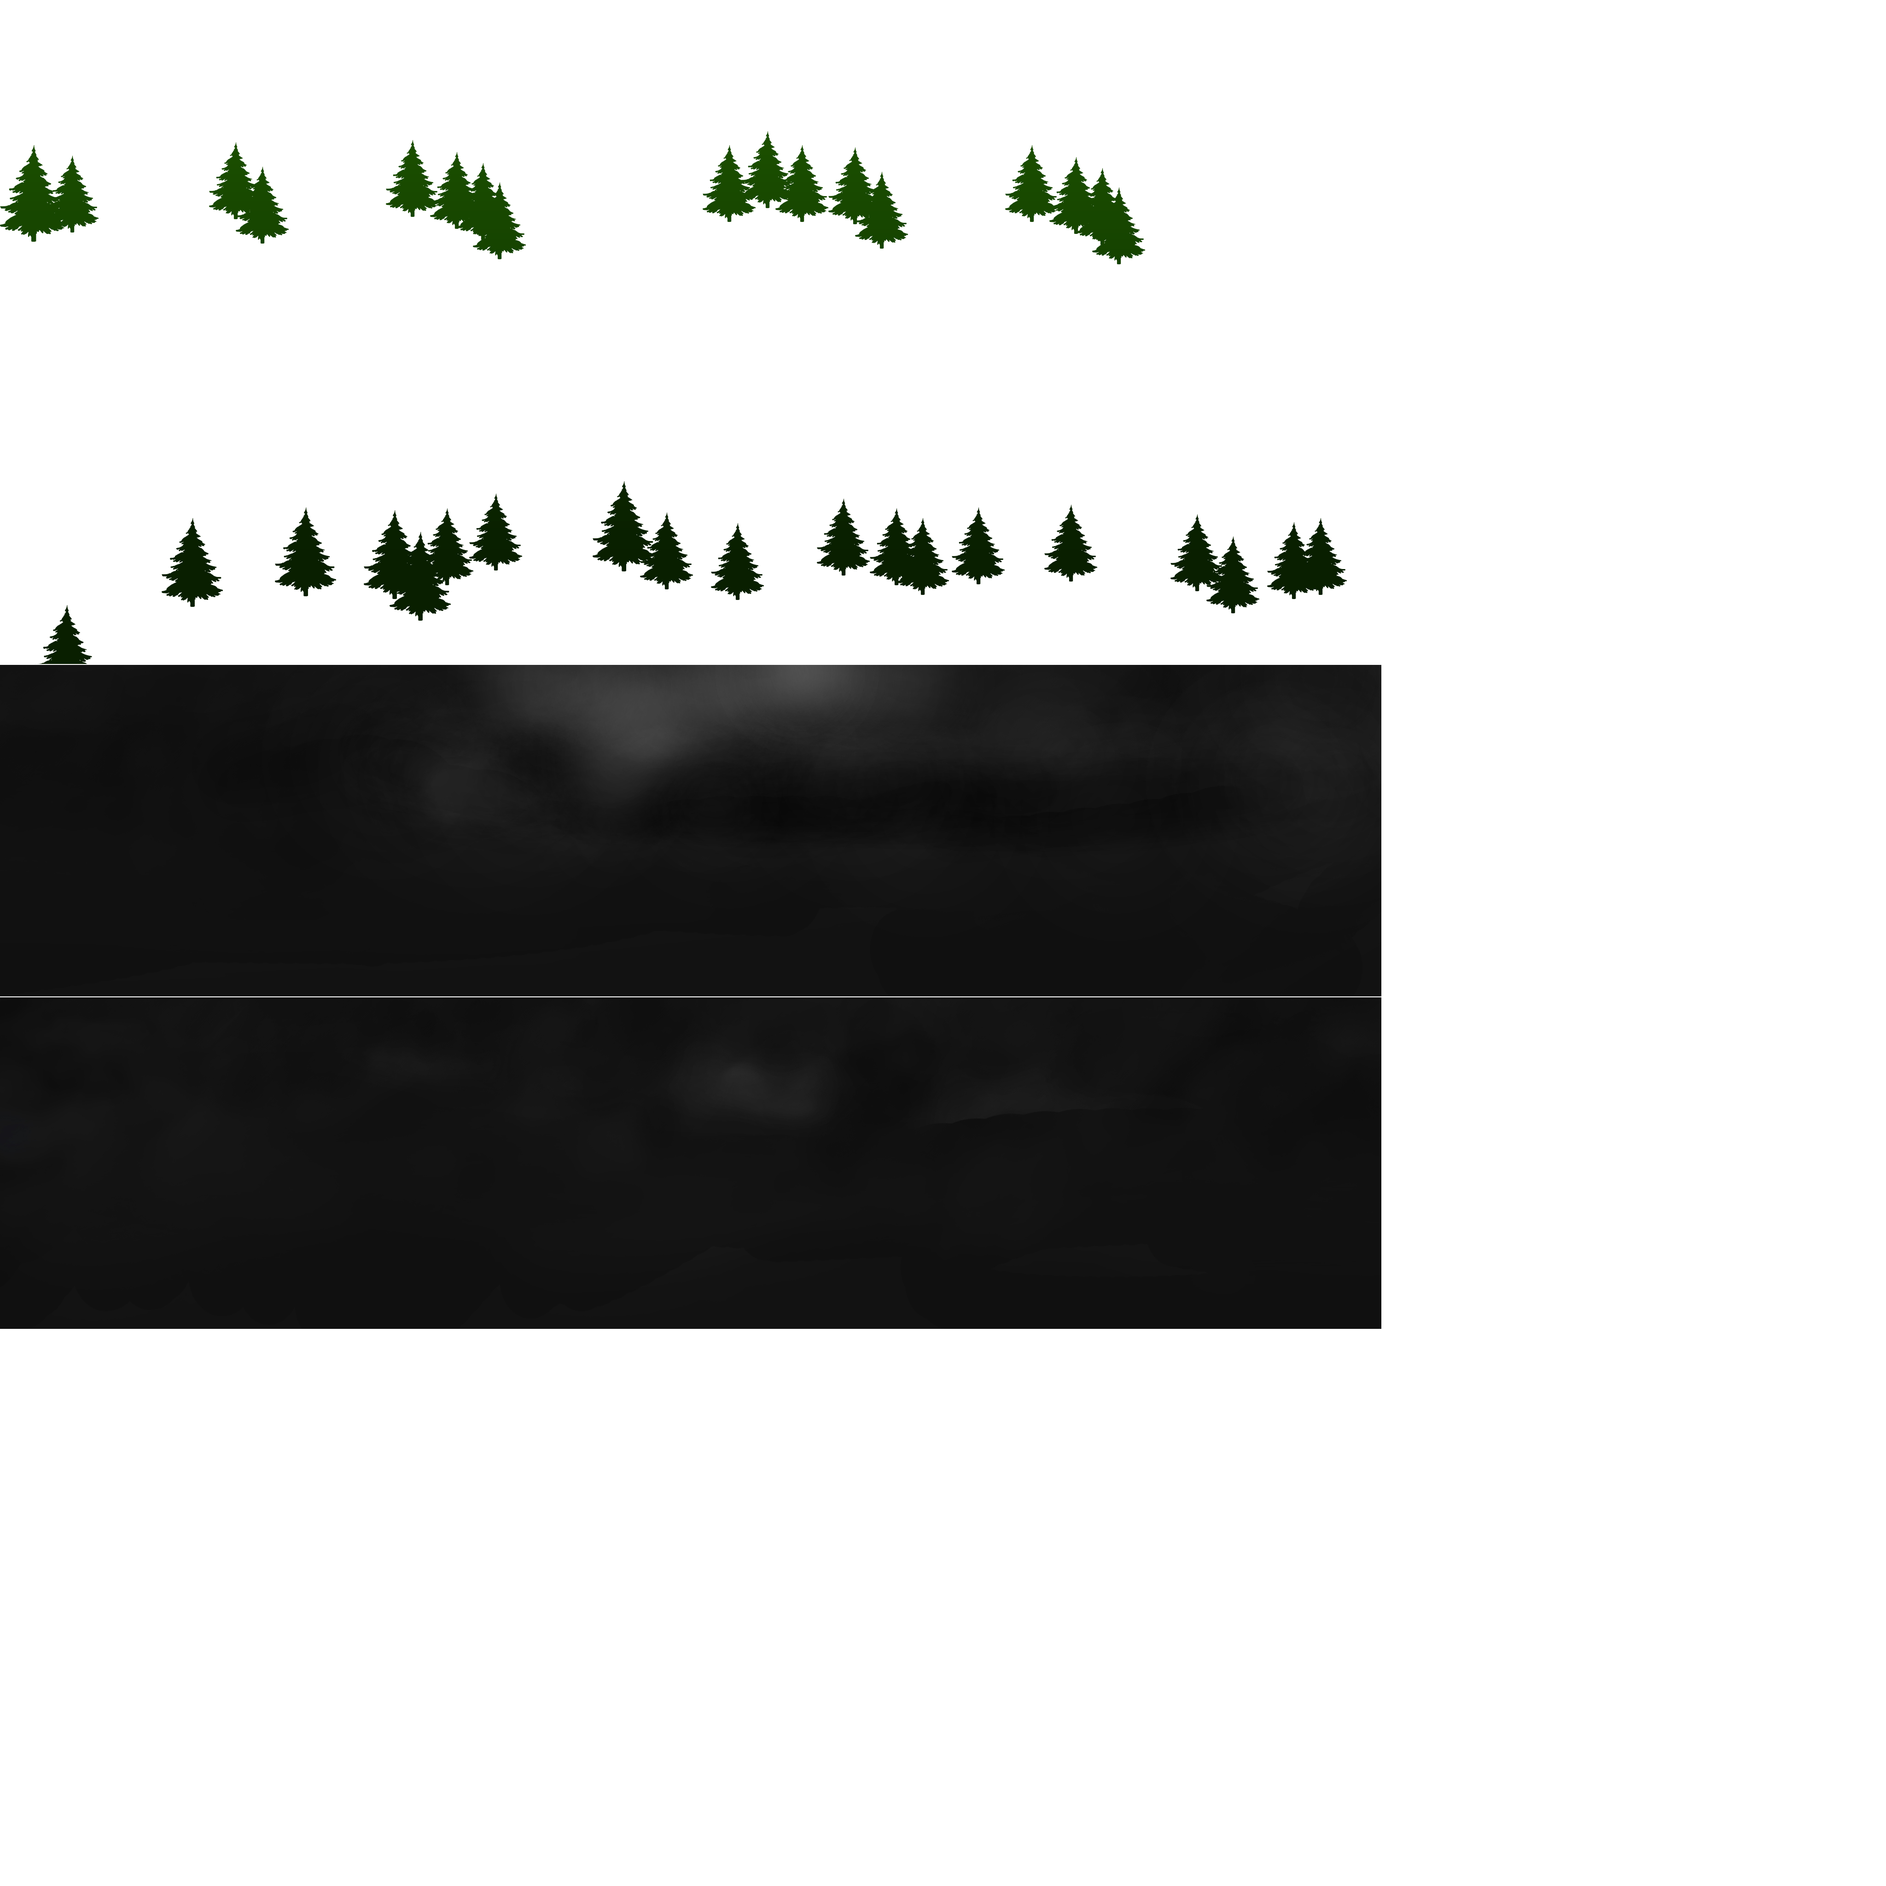
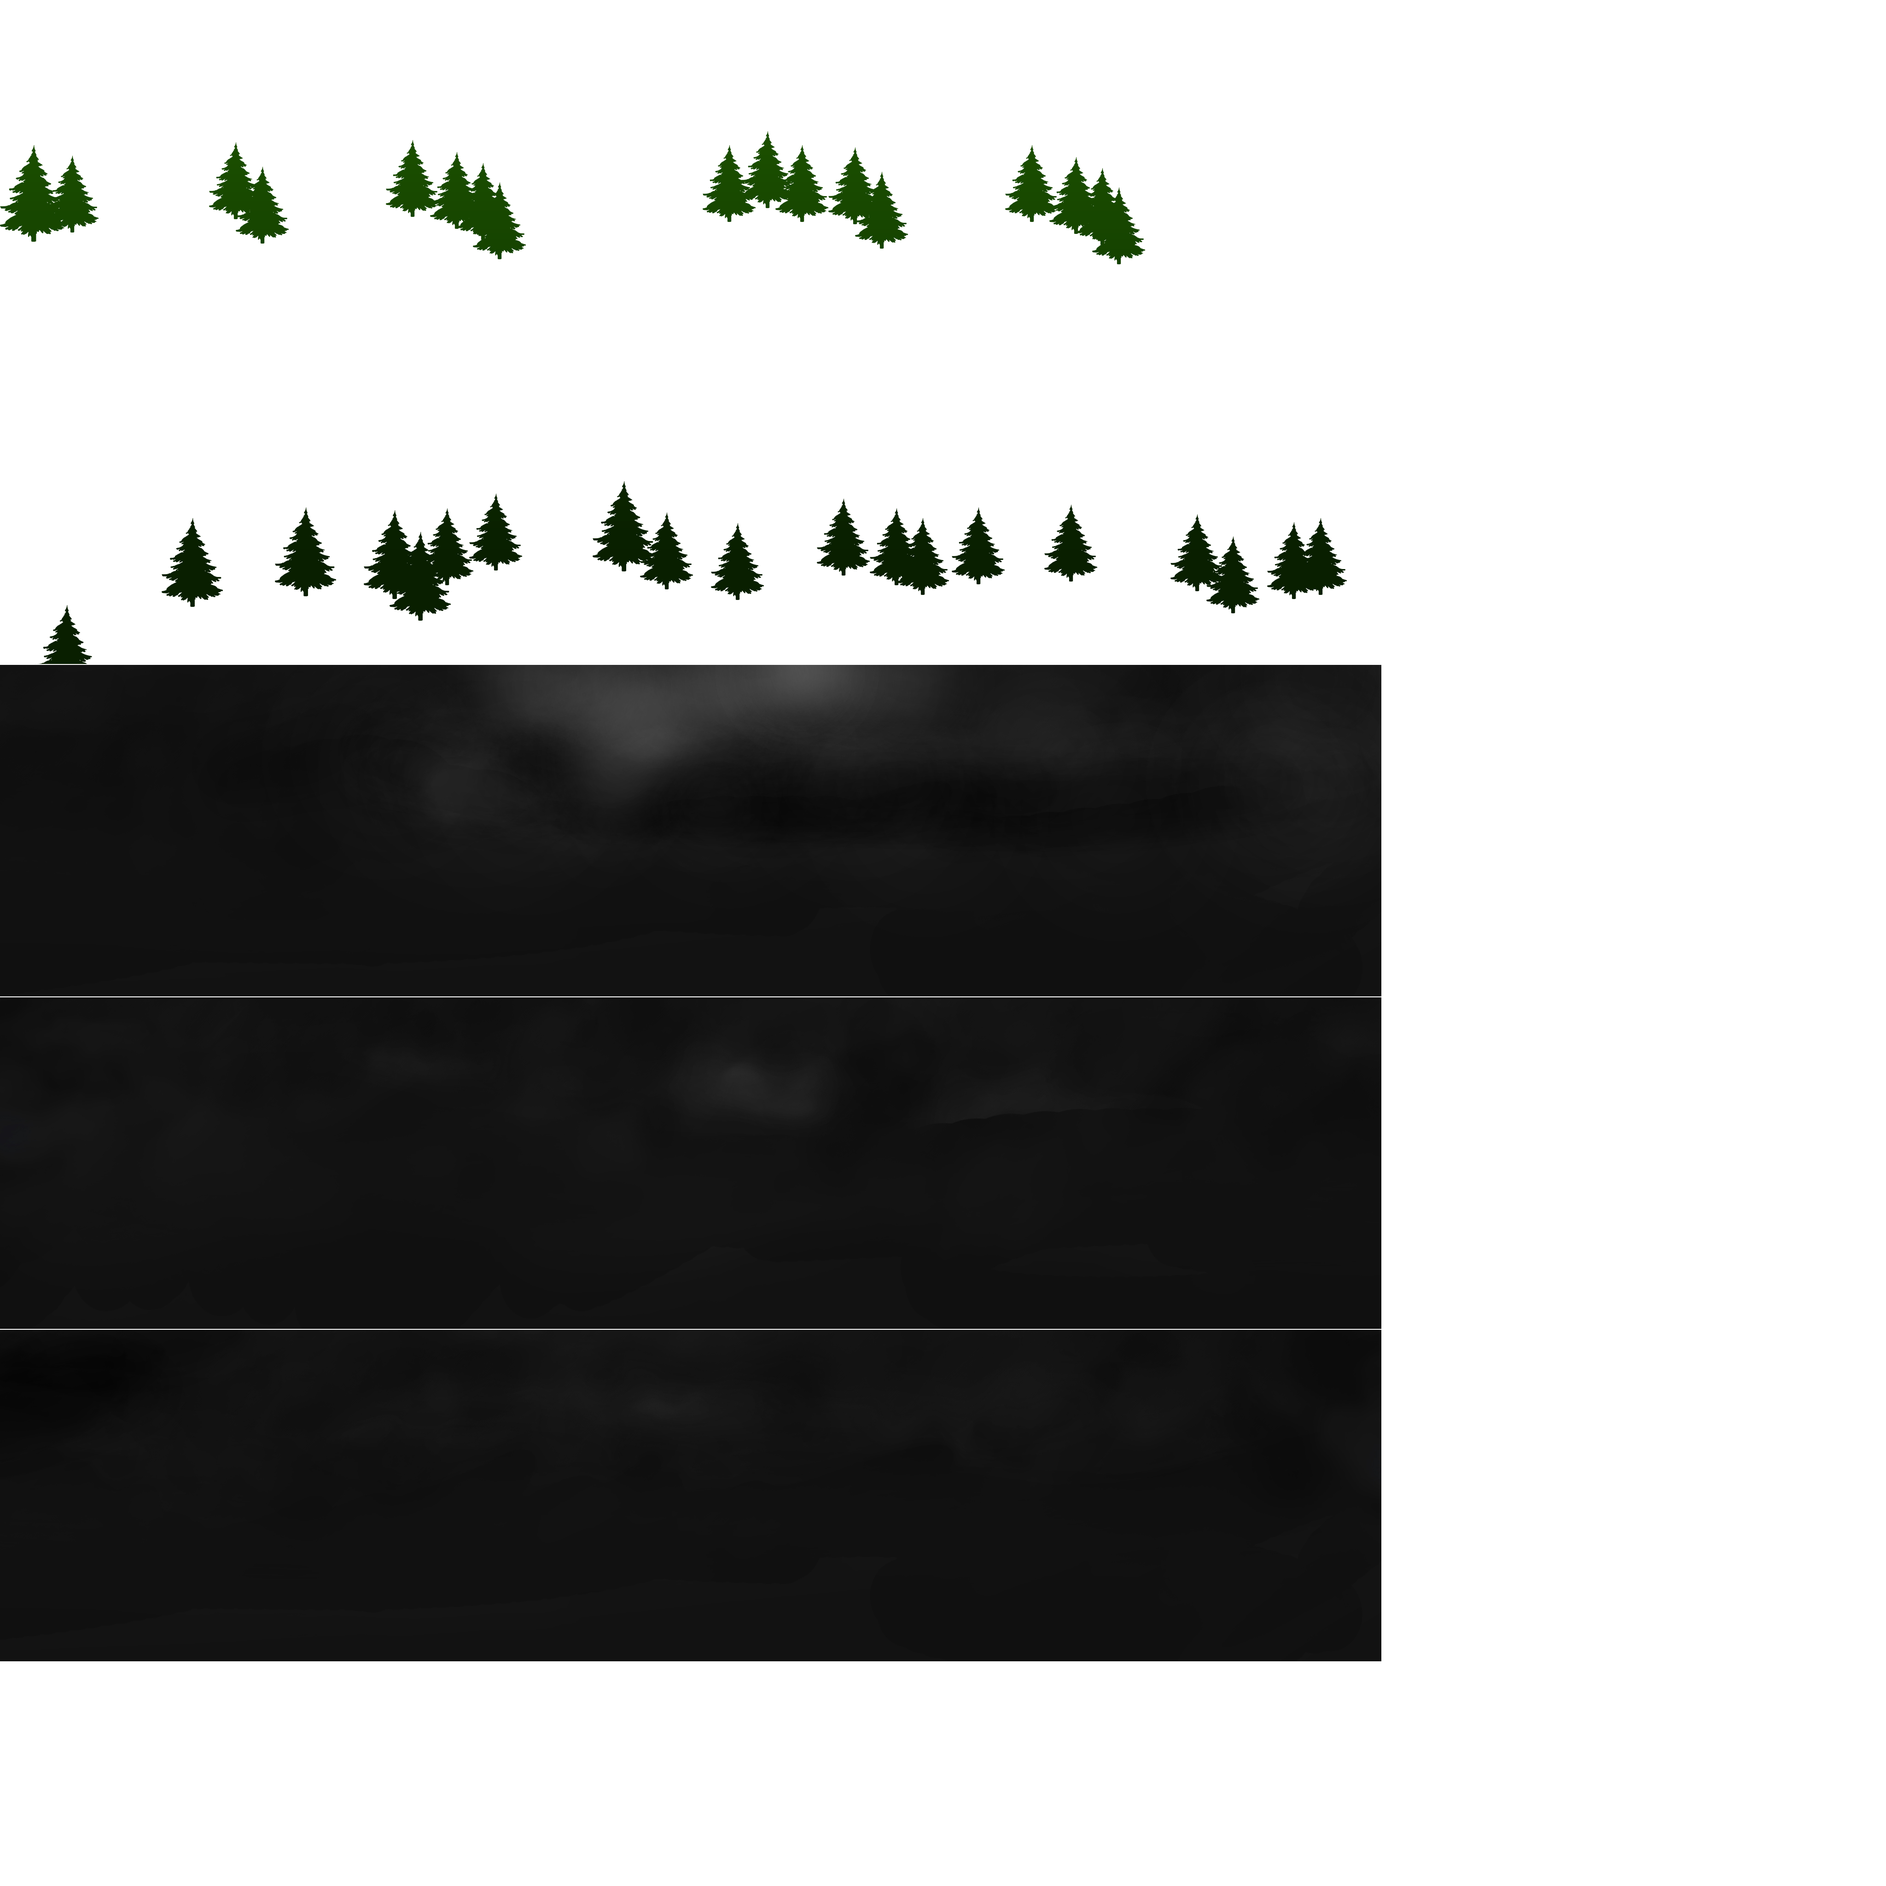
Final Touches on title screen

Changed region(s): [[0.0, 0.6875, 0.75, 0.9062]]

diff --git a/html/webapp/index.html b/html/webapp/index.html
@@ -1,7 +1,7 @@
 <!doctype html>
 <html>
        <head>
-              <title>Nessie, Where Are You?</title>
+              <title>Sneaky Nessie</title>
               <meta http-equiv="content-type" content="text/html; charset=UTF-8">
               <link href="styles.css" rel="stylesheet" type="text/css">
               <style type="text/css">
@@ -35,28 +35,35 @@
        
        <body>
            <div style="float: left; margin: 20px; max-width: 250px;">
-               <img align="center" src="gamedevlou-logo-med.png" alt="http://gamedevlou.org" width="175" height="168" />
-               <h2 align="center">Nessie, Where Are You?</h2>
+               <div align="center">
+                <img align="center" src="gamedevlou-logo-med.png" alt="http://gamedevlou.org" width="175" height="168" />
+               </div>
+               <h2 align="center">Sneaky Nessie</h2>
                <h3 align="center">Ludum Dare 30 Entry</h3>
-               <h5 align="center">You play as the lovable mythical creature, Nessie, trying to secretly make your way out of the lake, and through the environment. You're risking exposure because you feel drawn to the other side of the town by an unknown force. Use your prehistoric agility, hiding skills, and special disguises to avoid being seen on your journey.</h5>
+               <h5 align="center">
+                   You play as the lovable mythical creature, Nessie, trying to secretly make your way out of the lake, and through the environment.
+                   You're risking exposure because you feel drawn to the other side of the town by an unknown force.
+                   Use your prehistoric agility, hiding skills, and special disguises to avoid being seen on your journey.
+                   HINT: When in trouble seek green cover.
+               </h5>
                <hr align="center" width="90%" />
                <p align="center"><strong>controls:</strong></p>
                <ul id="controls">
-                   <li>Move - WASD or ←↑↓→</li>
-                   <li>Run - Hold SHIFT while moving</li>
+                   <li>Move Nessie - WASD or ←↑↓→</li>
+                   <li>Run Faster - Hold SHIFT while moving</li>
                    <li>Toggle Disguise - SPACE</li>
                    <li>Restart Level When Found - SPACE</li>
                </ul>
                <hr align="center" width="90%" />
                <div align="center"><a href="http://kasetagen.com">Kasetagen</a><a href="http://gamedevlou.org">GameDevLou</a></div>
-               <div align="center">Art: <a href="https://twitter.com/LoiLeMix">@LoiLeMix</a></div>
+               <div align="center">Art: <a href="http://lemix.me">Loi LeMix</a></div>
                <div align="center">Programming: <a href="http://twitter.com/barryrowe">@barryrowe</a></div>
                <div align="center">Music: <a href="http://opengameart.org/users/foxsynergy">FoxSynergy</a></div>
                <div align="center"><a href="http://twitter.com/@GameDevLouKY">@GameDevLouKY</a></div>
                <div align="center"><a href="http://ludumdare.com/compo">Ludum Dare Entry</a></div>
            </div>
-              <div align="left" id="embed-html"></div>
-              <script type="text/javascript" src="html/html.nocache.js"></script>
+           <div align="left" id="embed-html"></div>
+           <script type="text/javascript" src="html/html.nocache.js"></script>
        </body>
        
        <script>

diff --git a/core/src/com/pineapplepiranha/games/scene2d/stage/StealthNessieStage.java b/core/src/com/pineapplepiranha/games/scene2d/stage/StealthNessieStage.java
@@ -128,11 +128,11 @@ public class StealthNessieStage extends BaseStage {
         clouds.setZIndex(depthInitialIndex++);
 
         TextureRegion moonTexture = new TextureRegion(am.get(AssetsUtil.MOON, AssetsUtil.TEXTURE));
-        moon = new GenericActor(initialMoonPos.x, initialMoonPos.y, 100f, 100f, moonTexture, Color.YELLOW);
+        moon = new GenericActor(initialMoonPos.x, initialMoonPos.y, 150f, 150f, moonTexture, Color.YELLOW);
         addActor(moon);
         moon.setZIndex(depthInitialIndex++);
 
-        distantParallax = new LevelBackground(distantParalaxPos.x, distantParalaxPos.y, 9201f, 720f, atlas.findRegions("bg/B2Tree"));
+        distantParallax = new LevelBackground(distantParalaxPos.x, distantParalaxPos.y, 9201f, 720f, atlas.findRegions("bg/Mountains"));
         addActor(distantParallax);
         distantParallax.setZIndex(depthInitialIndex++);
 
@@ -154,7 +154,6 @@ public class StealthNessieStage extends BaseStage {
         addActor(waves);
         waves.setZIndex(depthInitialIndex++);
 
-        //TextureRegion landingPadRegion = new TextureRegion(am.get(AssetsUtil.MOON, AssetsUtil.TEXTURE));
         Animation glowingAnimation = new Animation(STAR_TWINKLE_RATE, atlas.findRegions("bg/Glow"));
         landingPad = new AnimatedActor(pickupPointPos.x, pickupPointPos.y, 900f, 187f, glowingAnimation, 0f);
         addActor(landingPad);
@@ -313,13 +312,13 @@ public class StealthNessieStage extends BaseStage {
         patrolVals.add(new Vector3(7620, 720-660, 1500));
         patrolVals.add(new Vector3(8482, 720-578, 300));
         patrolVals.add(new Vector3(9500, 720-715, 800));
-        patrolVals.add(new Vector3(9000, 720-360, 200));
+        patrolVals.add(new Vector3(9000, 720-560, 200));
         patrolVals.add(new Vector3(10500, 720-502, 500));
         patrolVals.add(new Vector3(10500, 720-602, 500));
         patrolVals.add(new Vector3(10500, 720-702, 500));
         Texture flTexture = am.get(AssetsUtil.FLASHLIGHT, AssetsUtil.TEXTURE);
 
-        float width = 50f;
+        float width = 75f;
         float height = 100f;
         for(Vector3 pv:patrolVals){
             String animationName = pv.z > 500 ? "patrol/Patrol" : "patrol/PatrolA";

diff --git a/core/src/com/pineapplepiranha/games/screen/MenuScreen.java b/core/src/com/pineapplepiranha/games/screen/MenuScreen.java
@@ -57,8 +57,6 @@ public class MenuScreen extends ApplicationAdapter implements Screen, InputProce
                     else if (btn == optionsButton){
                         gameProcessor.changeToScreen(SneakyNessieGame.OPTIONS);
                     }
-
-                    Gdx.app.log("Menu Item Clicked", "Clicked");
                 }
             };
 
@@ -67,23 +65,23 @@ public class MenuScreen extends ApplicationAdapter implements Screen, InputProce
 
             TextButton.TextButtonStyle style = new TextButton.TextButtonStyle();
             style.font = gameProcessor.getAssetManager().get(AssetsUtil.COURIER_FONT_32, AssetsUtil.BITMAP_FONT);
-            style.fontColor =  Color.CYAN;
-            style.overFontColor = Color.RED;
-            style.downFontColor = Color.GRAY;
+            style.fontColor =  Color.WHITE;
+            style.overFontColor = Color.TEAL;
+            style.downFontColor = Color.WHITE;
             float fontScale = 2f;
             style.font.setScale(fontScale);
 
-            startGameButton = new TextButton("Play Game", style);
+            startGameButton = new TextButton("Start Sneakin'", style);
             startGameButton.addListener(listener);
-            startGameButton.setPosition(((stage.getWidth()/4) * 3) - startGameButton.getWidth()/2, (stage.getHeight()/4));
+            startGameButton.setPosition(((stage.getWidth()/4) * 3) - startGameButton.getWidth()/2, -5f);
 
             stage.addActor(startGameButton);
 
-            optionsButton = new TextButton("Options", style);
-            optionsButton.setPosition(((stage.getWidth() / 4) * 3) - startGameButton.getWidth() / 2, (stage.getHeight() / 8));
-            optionsButton.addListener(listener);
-
-            stage.addActor(optionsButton);
+//            optionsButton = new TextButton("Options", style);
+//            optionsButton.setPosition(((stage.getWidth() / 4) * 3) - startGameButton.getWidth() / 2, (stage.getHeight() / 8));
+//            optionsButton.addListener(listener);
+//
+//            stage.addActor(optionsButton);
 
         }
 

diff --git a/core/src/com/pineapplepiranha/games/util/AssetsUtil.java b/core/src/com/pineapplepiranha/games/util/AssetsUtil.java
@@ -22,18 +22,12 @@ public class AssetsUtil {
     public static Class<Sound> SOUND = Sound.class;
     public static Class<Music> MUSIC = Music.class;
     public static Class<TextureAtlas> TEXTURE_ATLAS = TextureAtlas.class;
-    public static Class<ParticleEffect> PARTICLE = ParticleEffect.class;
-    public static Class<Skin> SKIN = Skin.class;
 
     //TextureAtlases
     public static final String ANIMATION_ATLAS = "animations/animations.atlas";
 
-    //Skin
-    public static final String DEFAULT_SKIN = "uiskin.json";
-
     //Images
-    public static final String TITLE_SCREEN = "images/bg_city.png";
-    //public static final String GAME_BG = "images/Background_E.png";
+    public static final String TITLE_SCREEN = "images/Title.jpg";
     public static final String TREE_1 = "images/Tree.png";
     public static final String TREE_2 = "images/Pine-Tree.png";
     public static final String BUSH = "images/Bush.png";
@@ -42,12 +36,8 @@ public class AssetsUtil {
     public static final String MASK_ICON = "images/Mask_Icon.png";
     public static final String GRASS = "images/Front-Grass.png";
     public static final String WAVES = "images/Waves.png";
-//    public static final String FAR_TREES = "images/Background-Tree-Back.png";
-//    public static final String NEAR_TREES = "images/Background-Tree-Front.png";
-//    public static final String CLOUDS = "images/Dark-Clouds.jpg";
     public static final String LIGHT = "images/light-2.png";
     public static final String MOON = "images/Moon.png";
-    public static final String MOUNTAINS = "images/Mountains.png";
     public static final String END_SCREEN = "images/endscreen.png";
     public static final String ALIEN_LIGHT = "images/alien-light.png";
 

diff --git a/core/src/com/pineapplepiranha/games/SneakyNessieGame.java b/core/src/com/pineapplepiranha/games/SneakyNessieGame.java
@@ -57,7 +57,6 @@ public class SneakyNessieGame extends Game implements IGameProcessor {
         assetManager.load(AssetsUtil.COURIER_FONT_32, AssetsUtil.BITMAP_FONT);
 
         assetManager.load(AssetsUtil.GAME_MUSIC, AssetsUtil.MUSIC);
-        //assetManager.load(AssetsUtil.GAME_BG, AssetsUtil.TEXTURE);
         assetManager.load(AssetsUtil.TREE_1, AssetsUtil.TEXTURE);
         assetManager.load(AssetsUtil.TREE_2, AssetsUtil.TEXTURE);
         assetManager.load(AssetsUtil.BUSH, AssetsUtil.TEXTURE);
@@ -66,12 +65,8 @@ public class SneakyNessieGame extends Game implements IGameProcessor {
         assetManager.load(AssetsUtil.MASK_ICON, AssetsUtil.TEXTURE);
         assetManager.load(AssetsUtil.GRASS, AssetsUtil.TEXTURE);
         assetManager.load(AssetsUtil.WAVES, AssetsUtil.TEXTURE);
-        //assetManager.load(AssetsUtil.FAR_TREES, AssetsUtil.TEXTURE);
-        //assetManager.load(AssetsUtil.NEAR_TREES, AssetsUtil.TEXTURE);
-        //assetManager.load(AssetsUtil.CLOUDS, AssetsUtil.TEXTURE);
         assetManager.load(AssetsUtil.LIGHT, AssetsUtil.TEXTURE);
         assetManager.load(AssetsUtil.MOON, AssetsUtil.TEXTURE);
-        assetManager.load(AssetsUtil.MOUNTAINS, AssetsUtil.TEXTURE);
         assetManager.load(AssetsUtil.END_SCREEN, AssetsUtil.TEXTURE);
         assetManager.load(AssetsUtil.ALIEN_LIGHT, AssetsUtil.TEXTURE);
 

diff --git a/core/src/com/pineapplepiranha/games/scene2d/actor/LevelBackground.java b/core/src/com/pineapplepiranha/games/scene2d/actor/LevelBackground.java
@@ -27,9 +27,9 @@ public class LevelBackground extends GenericGroup {
     public LevelBackground(float x, float y, float width, float height, Array<TextureAtlas.AtlasRegion> regions){
         super(x, y, width, height, Color.BLACK);
         float nextX = 0f;
-        Gdx.app.log("LVLBG", "Regions:" + regions.size);
+
         for(TextureAtlas.AtlasRegion r:regions){
-            Gdx.app.log("LVLBG", "Region Name: " + r.name + " Nextx: " + nextX);
+
             addActor(new GenericActor(nextX, 0f, r.getRegionWidth(), r.getRegionHeight(), r, Color.BLUE));
             nextX += r.getRegionWidth();
         }

diff --git a/core/src/com/pineapplepiranha/games/scene2d/actor/Patroler.java b/core/src/com/pineapplepiranha/games/scene2d/actor/Patroler.java
@@ -58,11 +58,11 @@ public class Patroler extends DepthActor{
         velocity = new Vector2(speed, 0f);
         this.depthPos = depthPos;
         this.range = range;
-        this.visionBox = new Rectangle(x-(getVisionBoxWidth()), y-(height/2), getVisionBoxWidth(), height*2);
+        this.visionBox = new Rectangle(x-(getVisionBoxWidth()), y-(height/4), getVisionBoxWidth(), height*1.5f);
     }
 
     private float getVisionBoxWidth(){
-        return getWidth()*3;
+        return getWidth()*2;
     }
 
     @Override
